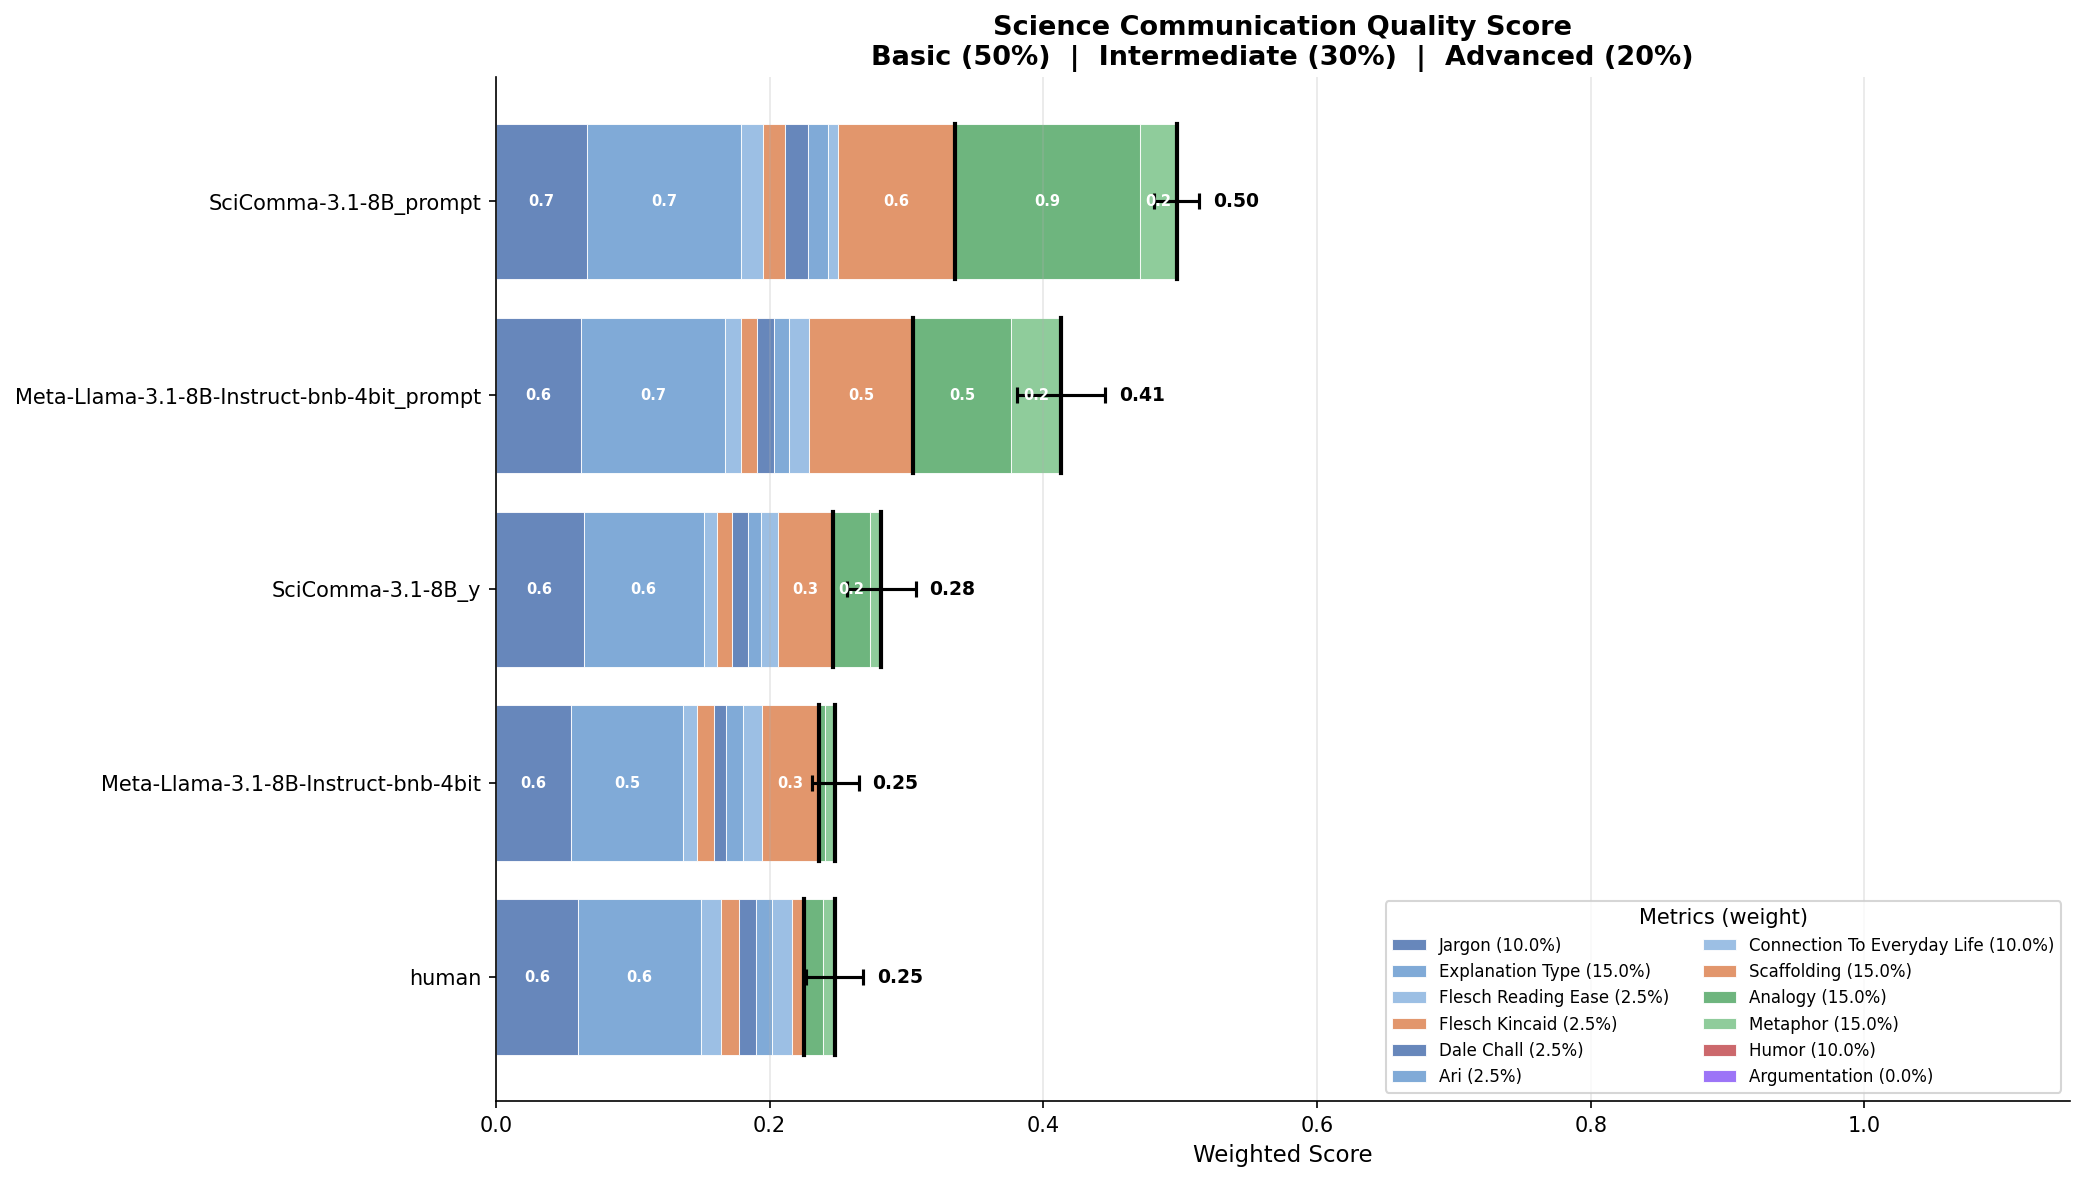
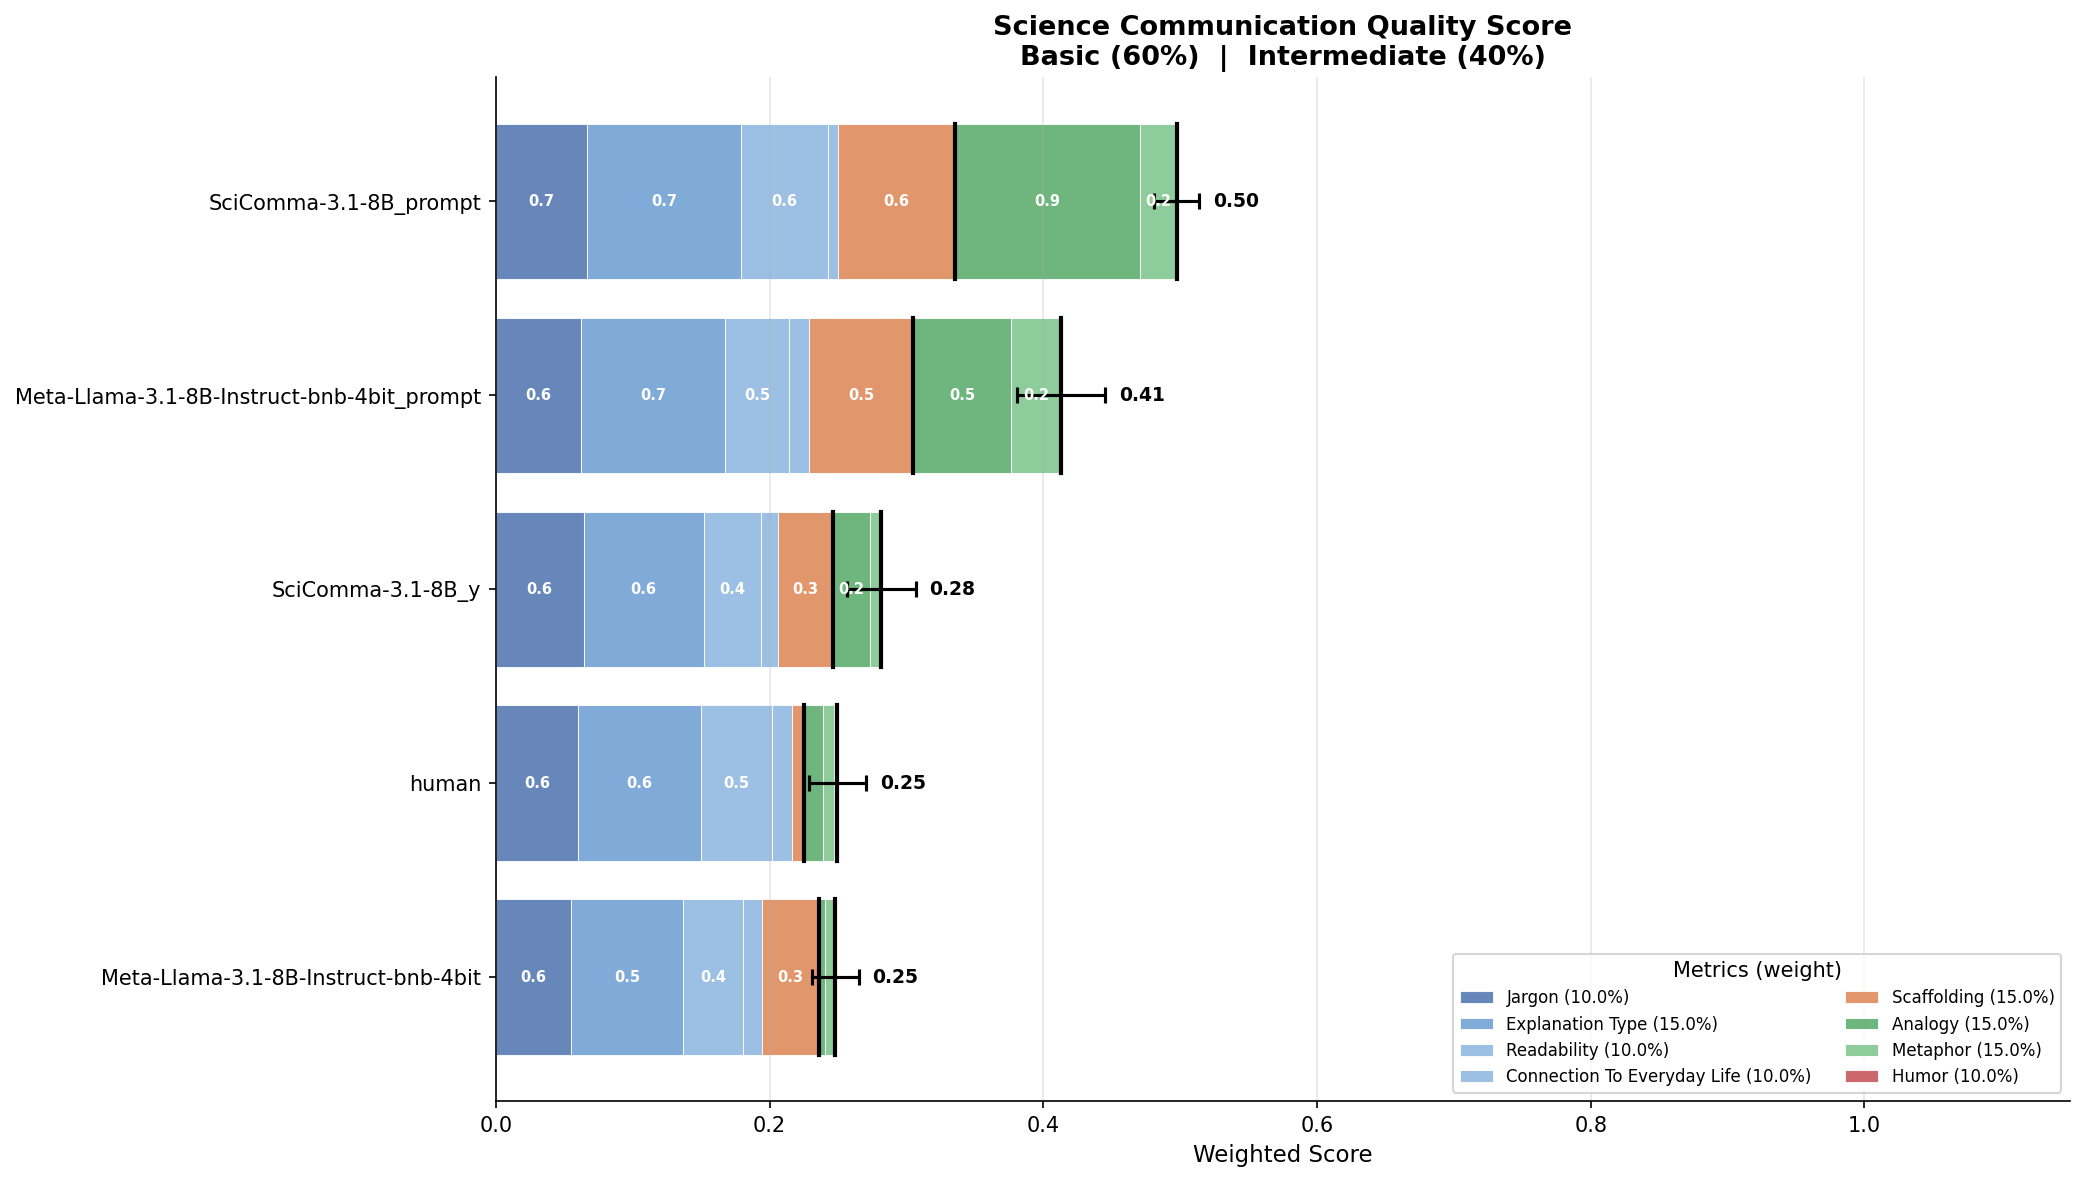
update humor metric to v2 with stricter alignment to Baram-Tsabari (2012) definition and refined evaluation steps

diff --git a/Benchmarking/deep_eval/custom_metrics/aggregate_v2.py b/Benchmarking/deep_eval/custom_metrics/aggregate_v2.py
@@ -158,6 +158,10 @@ METRIC_COLORS = assign_metric_colors()
 # Metrics where lower values are better (will be inverted during normalization)
 LOWER_IS_BETTER = ["ari", "dale_chall", "flesch_kincaid"]
 
+# Readability metrics to group into a single block in visualizations
+READABILITY_METRICS = ["flesch_reading_ease", "flesch_kincaid", "dale_chall", "ari"]
+READABILITY_COMBINED_WEIGHT = sum(CLUSTERS["clarity"]["metrics"][m]["weight"] for m in READABILITY_METRICS)
+
 # Custom normalization ranges: {metric_name: (min_val, max_val)}
 # Values outside this range are clipped to 0 or 1
 NORMALIZATION_RANGES = {
@@ -393,6 +397,8 @@ def plot_stacked_bar_chart(total_df: pd.DataFrame, metric_df: pd.DataFrame, outp
                 if metric_name not in METRIC_WEIGHTS:
                     continue
                 weight = METRIC_WEIGHTS[metric_name]["weight"]
+                if weight == 0:  # Skip metrics with zero weight (e.g., argumentation)
+                    continue
                 for model in models:
                     if metric_name in df_sorted.columns:
                         score = df_sorted[df_sorted["model"] == model][metric_name].values
@@ -414,6 +420,8 @@ def plot_stacked_bar_chart(total_df: pd.DataFrame, metric_df: pd.DataFrame, outp
     
     # Plot clusters in order: Basic, Intermediate, Advanced
     cluster_boundaries = []
+    readability_plotted = False  # Track if we've plotted the combined readability block
+    
     for cluster_name in ["basic", "intermediate", "advanced"]:
         cluster_info = LEVELS[cluster_name]
         cluster_start = left.copy()
@@ -424,27 +432,54 @@ def plot_stacked_bar_chart(total_df: pd.DataFrame, metric_df: pd.DataFrame, outp
                     continue
                 
                 metric_info = METRIC_WEIGHTS[metric_name]
-                color = METRIC_COLORS[metric_name]
+                if metric_info["weight"] == 0:  # Skip metrics with zero weight
+                    continue
                 
-                # Get scores for each model (scaled to match total_score)
-                scores = []
-                weighted_scores_list = []
-                for model in models:
-                    if metric_name in df_sorted.columns:
-                        score = df_sorted[df_sorted["model"] == model][metric_name].values
-                        raw_score = score[0] if len(score) > 0 and pd.notna(score[0]) else 0
-                    else:
-                        raw_score = 0
-                    scores.append(raw_score)
-                    # Scale weighted contribution so total bar height = total_score
-                    weighted_scores_list.append(raw_score * metric_info["weight"] * scale_factors[model])
-                
-                scores = np.array(scores)
-                weighted_scores = np.array(weighted_scores_list)
-                
-                # Shorten metric name for display
-                short_name = metric_name.replace("_v2", "").replace("_explicit", "").replace("_", " ").title()
-                weight_pct = metric_info["weight"] * 100
+                # Handle readability metrics as a combined block
+                if metric_name in READABILITY_METRICS:
+                    if readability_plotted:
+                        continue  # Skip - already plotted as combined block
+                    readability_plotted = True
+                    
+                    # Compute combined readability scores
+                    combined_scores = []
+                    combined_weighted_scores = []
+                    for model in models:
+                        model_avg = 0
+                        count = 0
+                        for rm in READABILITY_METRICS:
+                            if rm in df_sorted.columns:
+                                score = df_sorted[df_sorted["model"] == model][rm].values
+                                if len(score) > 0 and pd.notna(score[0]):
+                                    model_avg += score[0]
+                                    count += 1
+                        avg_score = model_avg / count if count > 0 else 0
+                        combined_scores.append(avg_score)
+                        combined_weighted_scores.append(avg_score * READABILITY_COMBINED_WEIGHT * scale_factors[model])
+                    
+                    scores = np.array(combined_scores)
+                    weighted_scores = np.array(combined_weighted_scores)
+                    short_name = "Readability"
+                    weight_pct = READABILITY_COMBINED_WEIGHT * 100
+                    color = METRIC_COLORS[READABILITY_METRICS[0]]  # Use first readability metric's color
+                else:
+                    # Regular metric handling
+                    color = METRIC_COLORS[metric_name]
+                    scores = []
+                    weighted_scores_list = []
+                    for model in models:
+                        if metric_name in df_sorted.columns:
+                            score = df_sorted[df_sorted["model"] == model][metric_name].values
+                            raw_score = score[0] if len(score) > 0 and pd.notna(score[0]) else 0
+                        else:
+                            raw_score = 0
+                        scores.append(raw_score)
+                        weighted_scores_list.append(raw_score * metric_info["weight"] * scale_factors[model])
+                    
+                    scores = np.array(scores)
+                    weighted_scores = np.array(weighted_scores_list)
+                    short_name = metric_name.replace("_v2", "").replace("_explicit", "").replace("_", " ").title()
+                    weight_pct = metric_info["weight"] * 100
                 
                 bars = ax.barh(y_pos, weighted_scores, left=left, 
                                color=color, alpha=0.85, edgecolor="white", linewidth=0.5)
@@ -514,7 +549,7 @@ def plot_stacked_bar_chart(total_df: pd.DataFrame, metric_df: pd.DataFrame, outp
     ax.set_yticks(y_pos)
     ax.set_yticklabels(models, fontsize=10)
     ax.set_xlabel("Weighted Score", fontsize=11)
-    ax.set_title("Science Communication Quality Score\nBasic (50%)  |  Intermediate (30%)  |  Advanced (20%)", 
+    ax.set_title("Science Communication Quality Score\nBasic (60%)  |  Intermediate (40%)", 
                 fontsize=13, fontweight="bold")
     ax.set_xlim(0, 1.15)
     
@@ -541,11 +576,27 @@ def plot_metric_heatmap(df: pd.DataFrame, output_dir: str):
     # Pivot to get metrics as rows, models as columns
     pivot_df = df.pivot(index="metric", columns="model", values="score")
     
-    # Sort metrics by cluster then category
+    # Combine readability metrics into a single row
+    if all(m in pivot_df.index for m in READABILITY_METRICS):
+        readability_row = pivot_df.loc[READABILITY_METRICS].mean()
+        pivot_df = pivot_df.drop(READABILITY_METRICS)
+        pivot_df.loc["readability"] = readability_row
+    
+    # Sort metrics by cluster then category, excluding zero-weight and individual readability metrics
     metric_order = []
+    readability_added = False
     for cluster_name in ["basic", "intermediate", "advanced"]:
         for cat_name in LEVELS[cluster_name]["categories"]:
             for m in CLUSTERS[cat_name]["metrics"].keys():
+                # Skip metrics with zero weight (e.g., argumentation)
+                if m in METRIC_WEIGHTS and METRIC_WEIGHTS[m]["weight"] == 0:
+                    continue
+                # Replace individual readability metrics with combined "readability"
+                if m in READABILITY_METRICS:
+                    if not readability_added and "readability" in pivot_df.index:
+                        metric_order.append("readability")
+                        readability_added = True
+                    continue
                 if m in pivot_df.index:
                     metric_order.append(m)
     pivot_df = pivot_df.reindex(metric_order)
@@ -559,7 +610,7 @@ def plot_metric_heatmap(df: pd.DataFrame, output_dir: str):
     sns.heatmap(pivot_df, annot=True, fmt=".2f", cmap="RdYlGn", 
                 vmin=0, vmax=1, ax=ax, cbar_kws={"label": "Normalized Score"})
     
-    ax.set_title("Model Performance Across All Metrics\n(Basic → Intermediate → Advanced)", 
+    ax.set_title("Model Performance Across All Metrics\n(Basic → Intermediate)", 
                 fontsize=13, fontweight="bold")
     ax.set_xlabel("Model", fontsize=12)
     ax.set_ylabel("Metric", fontsize=12)
@@ -615,7 +666,7 @@ def main(run_number: int = RUN_NUMBER):
     print("\n" + "="*60)
     print("TOTAL SCORES (sorted)")
     print("="*60)
-    display_cols = ["model", "basic_score", "intermediate_score", "advanced_score", "total_score"]
+    display_cols = ["model", "basic_score", "intermediate_score", "total_score"]
     display_cols = [c for c in display_cols if c in total_df.columns]
     print(total_df[display_cols].sort_values("total_score", ascending=False).to_string(index=False, float_format="%.3f"))
     

diff --git a/Benchmarking/deep_eval/custom_metrics/run.py b/Benchmarking/deep_eval/custom_metrics/run.py
@@ -244,10 +244,10 @@ if __name__ == "__main__":
         # "SciComma-3.1-8B",
         # "o1",
         # "claude-3-7-sonnet-20250219",
-        # "Meta-Llama-3.1-8B-Instruct-bnb-4bit",
-        # "Meta-Llama-3.1-8B-Instruct-bnb-4bit_prompt",
-        # "SciComma-3.1-8B_y",
-        # "SciComma-3.1-8B_prompt",
+        "Meta-Llama-3.1-8B-Instruct-bnb-4bit",
+        "Meta-Llama-3.1-8B-Instruct-bnb-4bit_prompt",
+        "SciComma-3.1-8B_y",
+        "SciComma-3.1-8B_prompt",
         "human"
         # "scicomma-3.1-dpo",
         # "scicomma-3.1-dpo_prompt"
@@ -259,30 +259,30 @@ if __name__ == "__main__":
     asyncio.run(
         generate_metric_report(
             metrics={
-                ## BARAM TSABARI METRICS
-                "jargon": jargon_metric,
-                # "explanation_type": explanation_type_metric_explicit,
-                "metaphor_v2": metaphor_metric_explicit_v2,
-                # "content_units_explicit_v2": content_units_metric_explicit_v2,
-                # "humor_explicit": humor_metric_explicit,
+                # ## BARAM TSABARI METRICS
+                # "jargon": jargon_metric,
+                # "metaphor_v2": metaphor_metric_explicit_v2,
                 "humor_v2": humor_metric_explicit_v2,
-                "analogy_v2": analogy_metric_explicit_v2,
-                "explanation_type_v2": explanation_type_metric_explicit_v2,
-                "connection_to_everyday_life_v2": connection_to_everyday_life_metric_explicit_v2,
+                # "analogy_v2": analogy_metric_explicit_v2,
+                # "explanation_type_v2": explanation_type_metric_explicit_v2,
+                # "connection_to_everyday_life_v2": connection_to_everyday_life_metric_explicit_v2,
+                #
+                # # ## READING EASE
+                # "scaffolding": scaffolding_metric,
+                # "flesch_kincaid": flesch_kincaid,
+                # "flesch_reading_ease": flesch_reading_ease,
+                # "dale_chall": dale_chall,
+                # "ari": ari,
+
+                ### DEPRECATED
+                ## CORRECTNESS METRICS
+                # "correctness_explicit": correctness_metric_explicit,
                 # ## ZEMLA METRICS
                 # "internal_coherence_v2": internal_coherence_metric_explicit_v2,
                 # "completeness_v2": completeness_metric_explicit_v2,
                 # "alternatives_explicit": alternatives_metric_explicit,  # unreliable for LLM measurement
                 # "articulation_v2": articulation_metric_explicit_v2,
                 # "perceived_truth_explicit": perceived_truth_metric_explicit,  # unreliable for LLM measurement
-                # ## READING EASE
-                "scaffolding": scaffolding_metric,
-                "flesch_kincaid": flesch_kincaid,
-                "flesch_reading_ease": flesch_reading_ease,
-                "dale_chall": dale_chall,
-                "ari": ari,
-                ## CORRECTNESS METRICS
-                # "correctness_explicit": correctness_metric_explicit,
             },
             evaluation_dataset=f"{PROJECT_DIR}/Benchmarking/deep_eval/data/test_data/corrected_evaluation_dataset.csv",
             models_to_evaluate=models,

diff --git a/Benchmarking/deep_eval/custom_metrics/metrics/explanation_quality_metrics.py b/Benchmarking/deep_eval/custom_metrics/metrics/explanation_quality_metrics.py
@@ -161,30 +161,32 @@ humor_metric_explicit = GEval(
     **g_eval_default_params
 )
 
+# v2: Strictly aligned with Baram-Tsabari (2012) definition
+# "Humor included both explicit jokes and ironic language"
 humor_metric_explicit_v2 = GEval(
     name="Humor Explicit (v2)",
     evaluation_steps=[
-        """1. HUMOR includes explicit jokes and obvious ironic language. Look for:
-   - Explicit jokes with a clear setup and punchline
-   - Puns or wordplay that are obviously meant to be funny
-   - OBVIOUS irony or sarcasm - dry understatement or saying something clearly tongue-in-cheek
+        """1. HUMOR includes explicit jokes AND ironic language.
    
-   Examples of humor:
-   - "...killing our own cells, which wouldn't be very wise" (obvious ironic understatement)
+   Look for ANY of the following:
+   - Explicit jokes (with or without a formal punchline)
+   - Puns or wordplay meant to amuse
+   - Ironic language: understatement, tongue-in-cheek remarks, or wry observations
+   
+   Examples of humor PRESENT:
+   - "...killing our own cells, which wouldn't be very wise" (ironic understatement)
    - "Atoms are like tiny LEGO blocks, except you can't step on them at 3 AM" (joke with punchline)
    - "Why did the electron leave the atom? Because it had no potential" (pun)
    - "Evolution doesn't plan ahead – if it did, it would have given us better knees" (ironic observation)""",
-        """2. The following are NOT humor (be strict!):
-   - Subtle or ambiguous irony that could be read literally
-   - Playful or casual tone without actual jokes or irony
-   - Exaggeration used for emphasis (not comedy)
-   - Creative or vivid analogies without comedic intent
-   - Witty writing style without explicit jokes
-   - Being engaging, enthusiastic, or conversational
-   - Interesting examples or observations
-   - Light-hearted comments without jokes or clear irony""",
-        """3. Be STRICT. Only return 10 if there is an EXPLICIT JOKE or OBVIOUS IRONIC LANGUAGE that is clearly meant to amuse.
-   The humor must be unmistakable – if you're unsure, return 0.
+        """2. The following are NOT humor:
+   - Creative or vivid analogies/metaphors without irony (e.g., "DNA is like a blueprint", "bacteria are like ninjas")
+   - Engaging or enthusiastic tone without jokes or irony
+   - Personification without irony (e.g., "the virus wants to replicate", "chemicals are villains")
+   - Vivid or dramatic descriptions
+   - Playful language that lacks actual jokes or ironic statements""",
+        """3. The key question: Is there an explicit JOKE or IRONIC statement?
+   If yes → return 10.
+   If no (even if creative, vivid, or playful) → return 0.
    Do not use intermediate scores."""
     ],
     evaluation_params=[LLMTestCaseParams.ACTUAL_OUTPUT],
